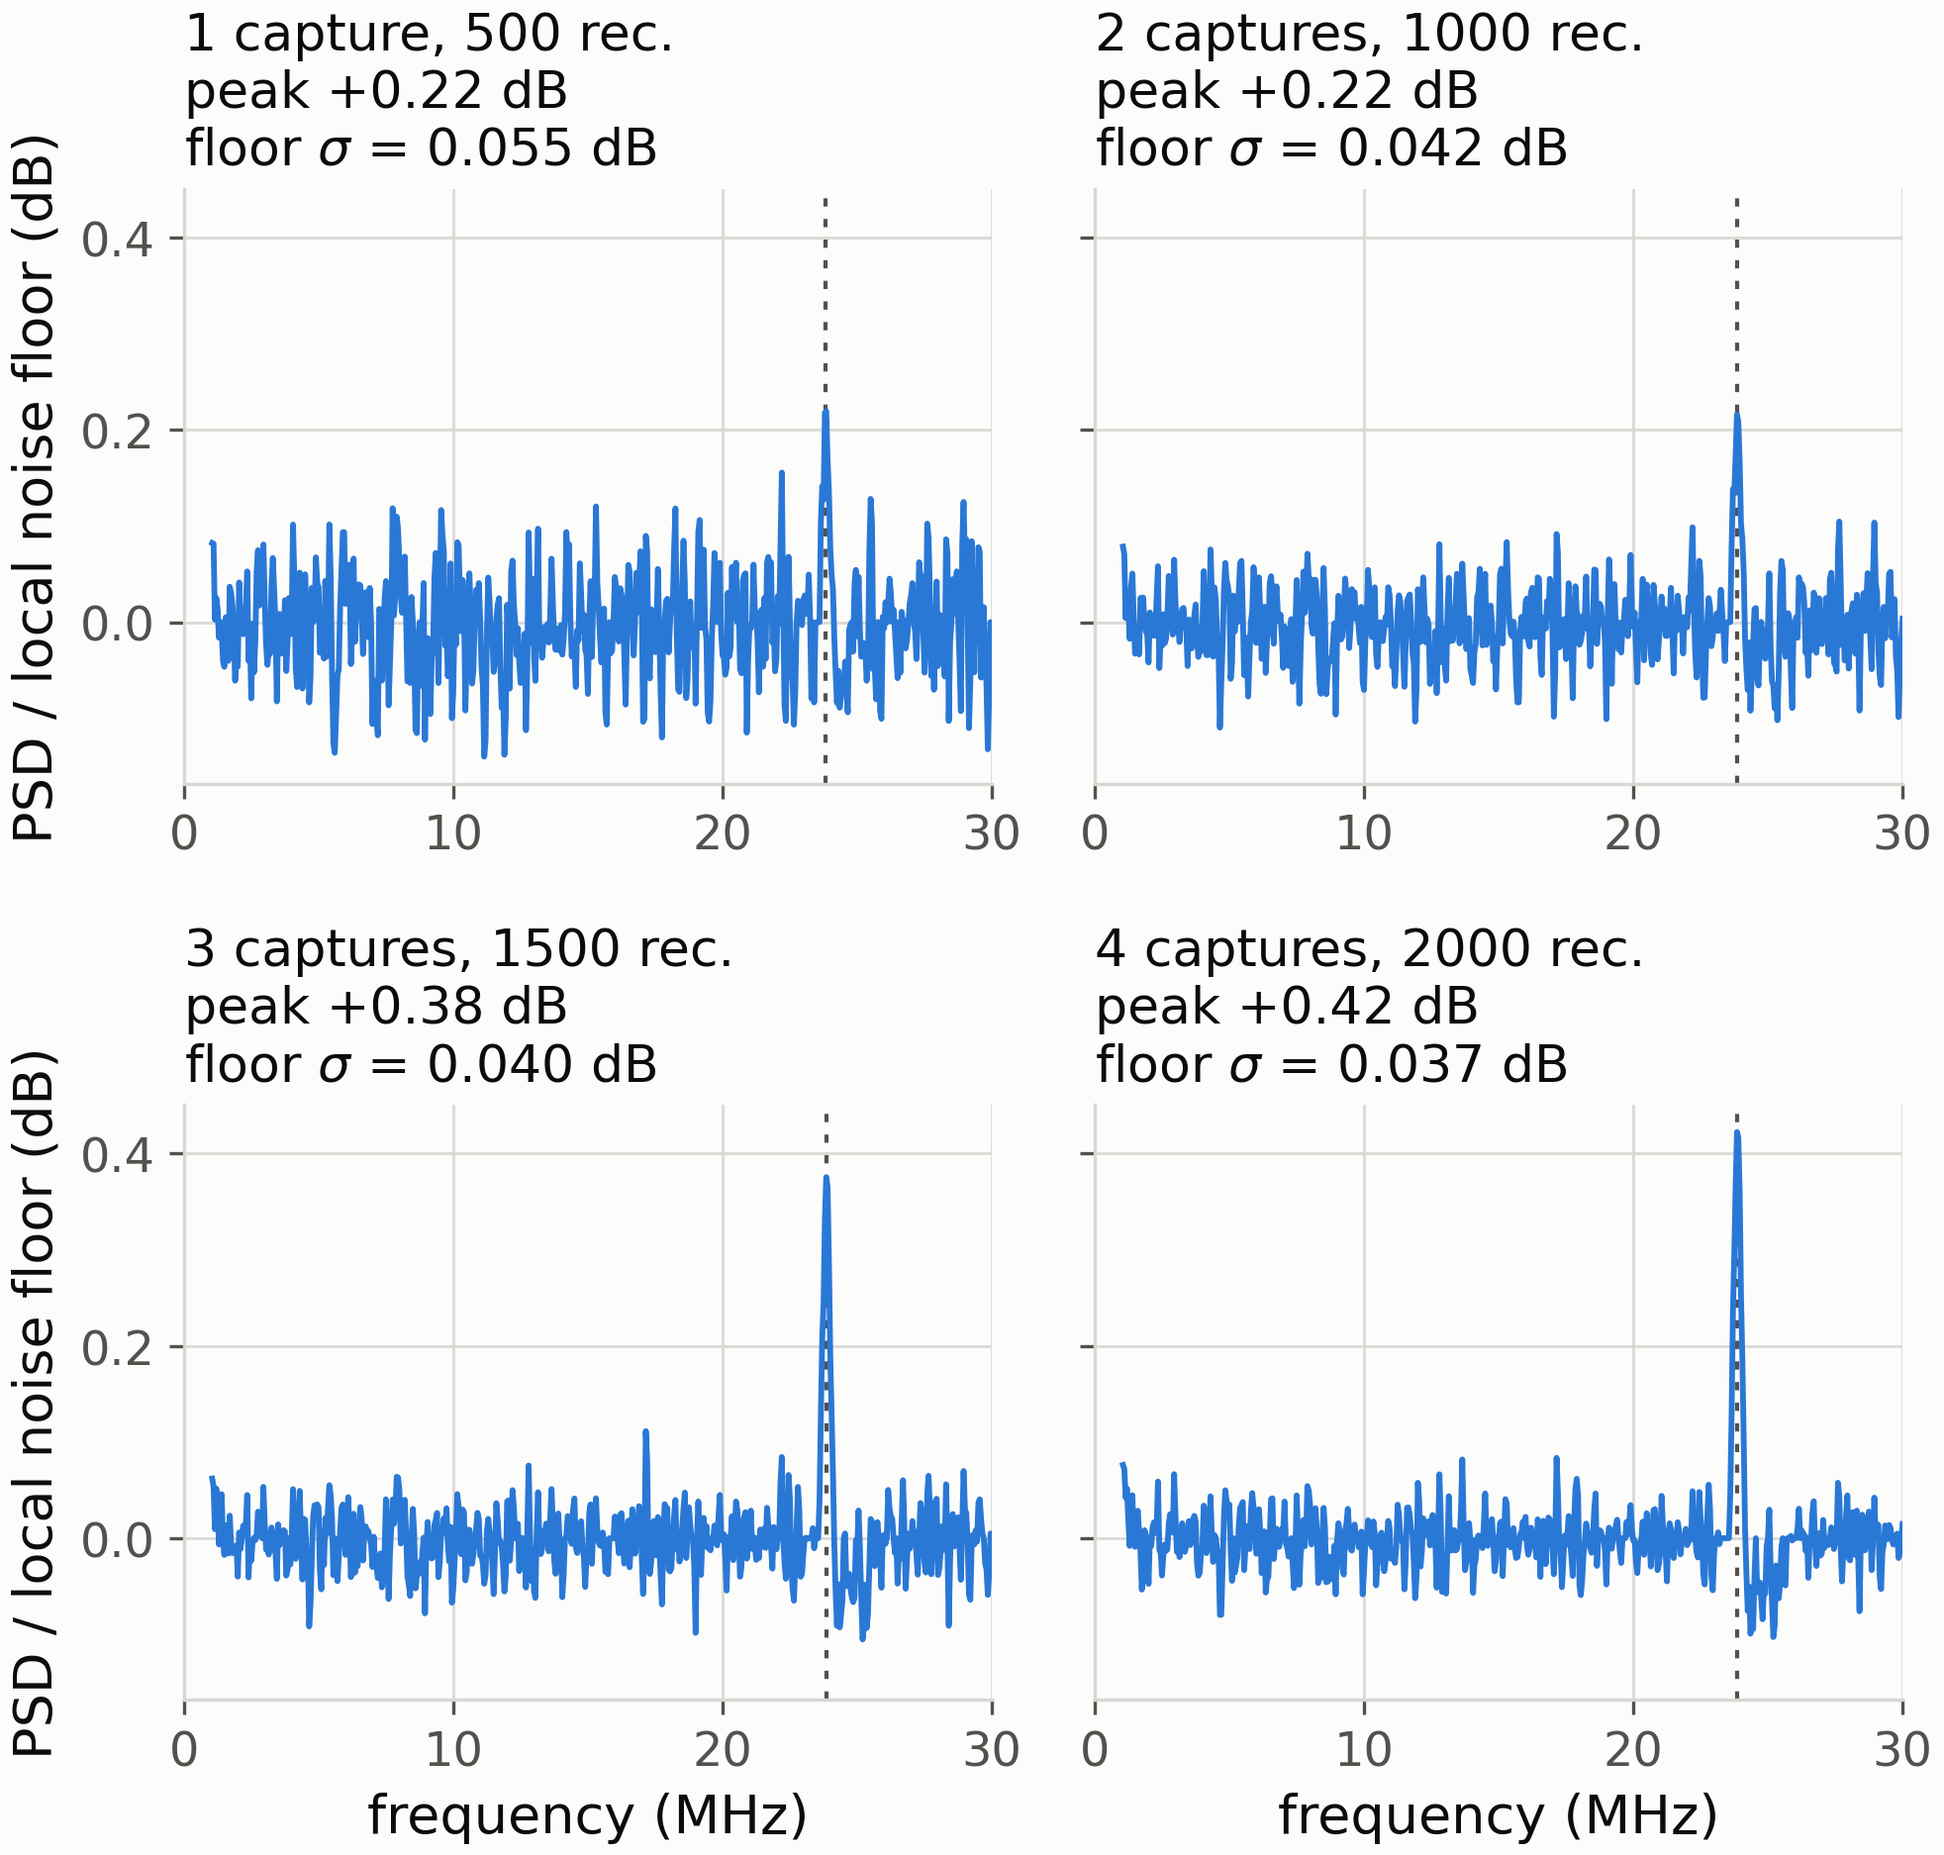
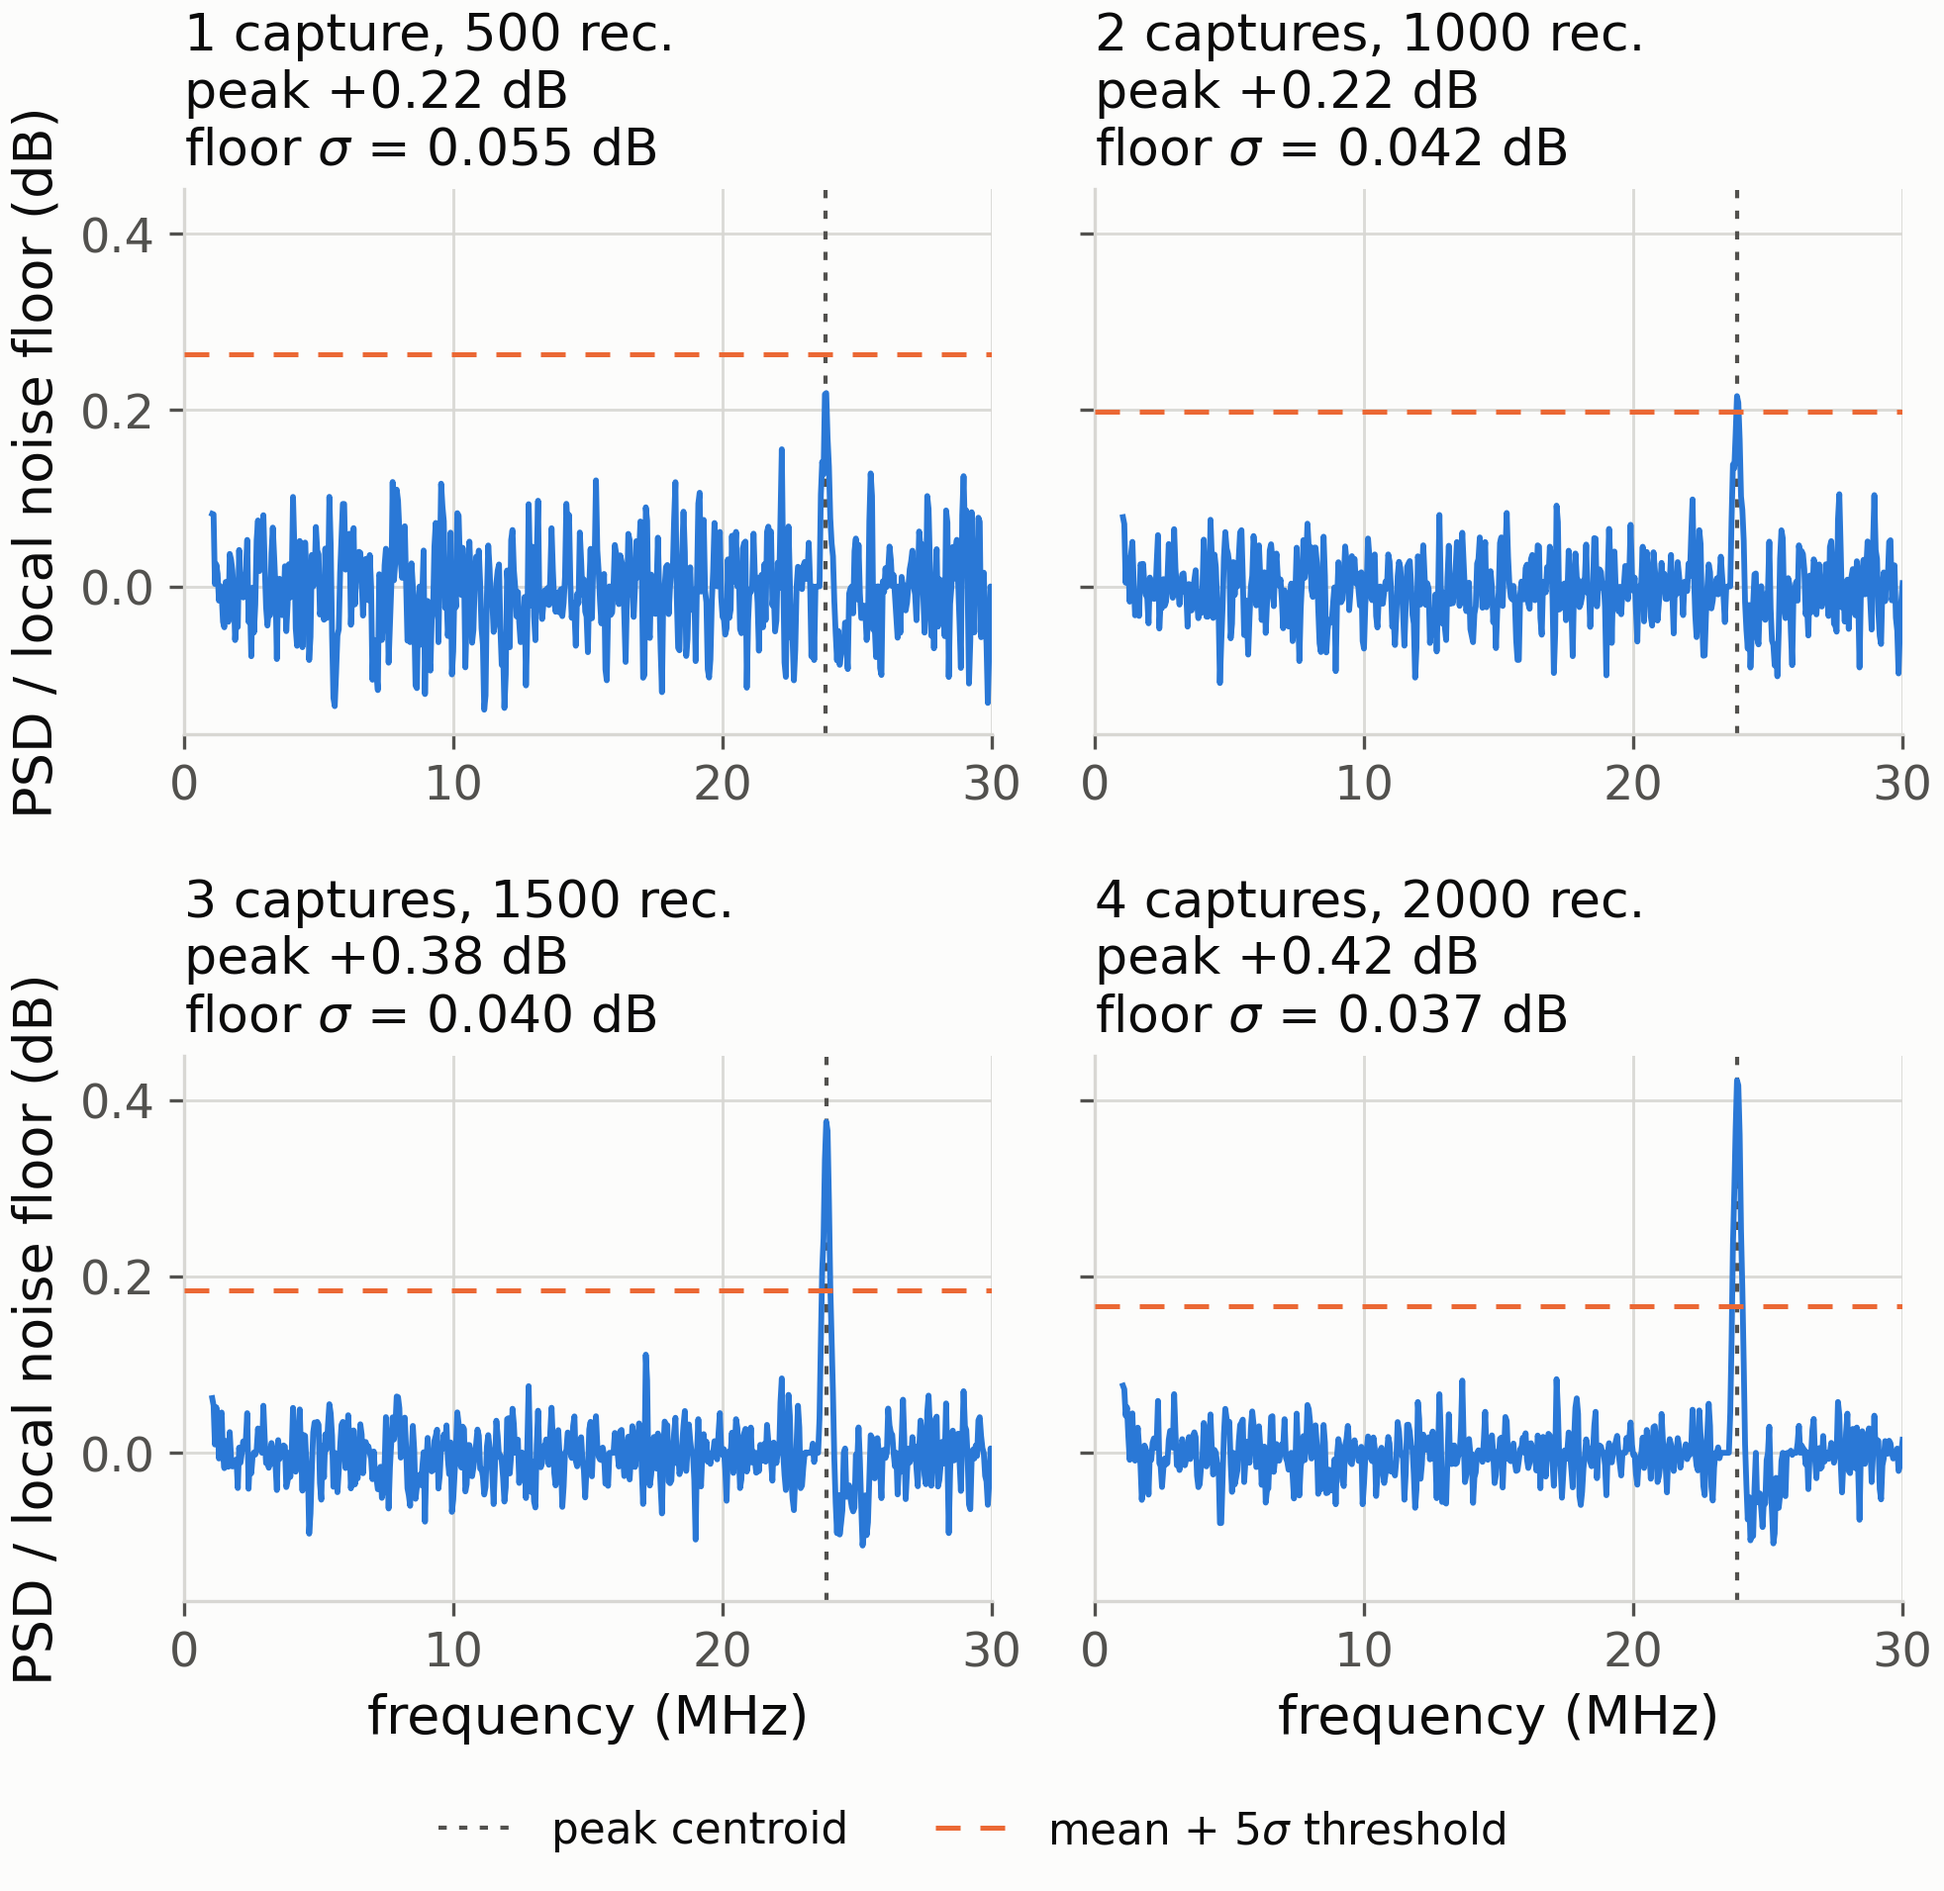
Modified scripts slightly for use in obtaining report results

diff --git a/Data Acquisition/rotation_comparison.py b/Data Acquisition/rotation_comparison.py
@@ -1,0 +1,124 @@
+"""rotation_comparison.py - Doppler speed against setpoint, unrotated vs rotated rig.
+
+The two wind-tunnel sets of wind_tunnel_doppler.py on one axis, captures
+picked exactly as there (wind_tunnel_doppler.SETS): tunnel speed from the
+Doppler peak, f_D / 1.057 MHz per m/s, against the setpoint, with the
+prediction (speed = setpoint) and each set's least-squares line through the
+origin, dashed in that set's colour.
+
+    python rotation_comparison.py
+"""
+from __future__ import annotations
+
+import argparse
+from pathlib import Path
+
+import numpy as np
+
+from peak_vs_rpm import fit_origin
+from psd_rpm import C_GRID, C_INK, C_MUTED, C_SURFACE, CAT
+from wind_tunnel_doppler import HZ_PER_MPS, SETS, measure_all, select
+
+# Per set: legend name, colour and marker. Slots follow the categorical order
+# the other wind-tunnel figures use - CAT[0] the original rig, CAT[1] the
+# prediction, CAT[2] mist - so the rotated rig takes the next one. A different
+# marker shape keeps the two rigs apart without relying on colour alone.
+LOOK = {"unrotated": ("unrotated", CAT[0], "o"),
+        "rotated": ("rotated", CAT[3], "s")}
+
+
+def load(data_dir: Path, name: str, nperseg: int) -> dict:
+    """Peaks of one set, its mist runs, and its fit through the origin."""
+    cfg = SETS[name]
+    pick = {"suffix": cfg["suffix"], "vdiv": cfg["vdiv"], "average": cfg["average"]}
+    rows = select(data_dir, cfg["date"], extra=cfg["extra"], **pick)
+    mist = select(data_dir, cfg["date"], mist=True, **pick) if cfg["mist"] else []
+    f = measure_all(rows, nperseg)
+    measure_all(mist, nperseg, f)
+    fit = [r for r in rows if not r["approx"]]
+    k, se, _ = fit_origin(np.array([r["speed"] for r in fit]),
+                          np.array([r["centroid"] for r in fit]))
+    return {"name": name, "cfg": cfg, "rows": rows, "mist": mist, "k": k, "se": se}
+
+
+def style(ax) -> None:
+    ax.set_facecolor(C_SURFACE)
+    ax.grid(True, color=C_GRID, lw=0.7, alpha=0.9)
+    ax.set_axisbelow(True)
+    for s in ("top", "right"):
+        ax.spines[s].set_visible(False)
+    for s in ("left", "bottom"):
+        ax.spines[s].set_color(C_GRID)
+    ax.tick_params(colors=C_MUTED)
+
+
+def plot(sets: list[dict], out: Path) -> None:
+    import matplotlib
+    matplotlib.use("Agg")
+    import matplotlib.pyplot as plt
+
+    import figstyle
+    figstyle.use()
+
+    fig, ax = plt.subplots(figsize=(figstyle.TEXT_WIDTH, 4.4))
+    fig.patch.set_facecolor(C_SURFACE)
+    every = [r for s in sets for r in s["rows"] + s["mist"]]
+    umax = max(r["speed"] for r in every) * 1.05
+    xs = np.array([0, umax])
+
+    ax.plot(xs, xs, color=CAT[1], lw=2, zorder=2,
+            label="predicted (1.057 MHz per m/s)")
+    for s in sets:
+        name, colour, marker = LOOK[s["name"]]
+        gain = s["k"] / HZ_PER_MPS                # measured / predicted slope
+        ax.plot(xs, gain * xs, color=colour, lw=1.2, ls=(0, (5, 4)), zorder=2,
+                label=f"fit, {name}: +{100 * (gain - 1):.1f} %")
+        # Mist under the fog markers, as in the single-set plot.
+        for group, mk, c, z, label in (
+                (s["rows"], marker, colour, 4, f"{name}, fog"),
+                (s["mist"], "D", CAT[2], 3, f"{name}, mist")):
+            if not group:
+                continue
+            u = np.array([r["speed"] for r in group])
+            meas = np.array([r["centroid"] for r in group]) / HZ_PER_MPS
+            ax.plot(u, meas, mk, ls="none", ms=6.5, color=c, mec=C_SURFACE,
+                    mew=1.3, zorder=z, label=label)
+
+    style(ax)
+    ax.set_xlim(0, umax)
+    ax.set_ylim(0, None)
+    ax.set_xlabel("wind-tunnel speed setpoint (m/s)", color=C_INK)
+    ax.set_ylabel("speed from Doppler peak (m/s)", color=C_INK)
+    # The points run up the diagonal, which leaves the top left empty; labels
+    # kept short so the legend stays clear of the fit lines.
+    ax.legend(frameon=False, loc="upper left", labelcolor=C_INK,
+              fontsize=figstyle.FS_NOTE, handlelength=1.8,
+              title="wedge and collimator", title_fontsize=figstyle.FS_NOTE,
+              alignment="left").get_title().set_color(C_MUTED)
+    fig.tight_layout()
+    fig.savefig(out, facecolor=fig.get_facecolor())
+    print(f"plot -> {out}")
+    plt.close(fig)
+
+
+def main() -> int:
+    ap = argparse.ArgumentParser(description=__doc__,
+                                 formatter_class=argparse.RawDescriptionHelpFormatter)
+    ap.add_argument("--data-dir", type=Path, default=Path("data"))
+    ap.add_argument("--nperseg", type=int, default=2500)
+    ap.add_argument("--out", type=Path,
+                    default=Path("figures/peak_vs_windtunnel_speed_compare.png"))
+    args = ap.parse_args()
+
+    sets = [load(args.data_dir, name, args.nperseg) for name in ("unrotated", "rotated")]
+    for s in sets:
+        errs = [100 * (r["centroid"] / HZ_PER_MPS / r["speed"] - 1) for r in s["rows"]]
+        print(f"{s['name']:>9}: fit {s['k']/1e6:.4f} +/- {s['se']/1e6:.4f} MHz per m/s "
+              f"({100 * (s['k']/HZ_PER_MPS - 1):+.1f} %), per-point "
+              f"{min(errs):+.1f} to {max(errs):+.1f} %")
+    plot(sets, args.out)
+    return 0
+
+
+if __name__ == "__main__":
+    raise SystemExit(main())

diff --git a/Data Acquisition/wind_tunnel_doppler.py b/Data Acquisition/wind_tunnel_doppler.py
@@ -424,7 +424,12 @@ def plot_averaging(caps: list[dict], f: np.ndarray, out: Path,
                        "noise_sd_dB": sd, "sigmas": sig})
 
         ax.set_facecolor(C_SURFACE)
-        ax.axvline(p["centroid"], color=C_MUTED, lw=1, ls=(0, (2, 3)), zorder=2)
+        ax.axvline(p["centroid"], color=C_MUTED, lw=1, ls=(0, (2, 3)), zorder=2,
+                   label="peak centroid")
+        # The detection threshold of noise_vs_windspeed.txt: the noise band's
+        # mean plus five of its standard deviations, in the same dB units.
+        ax.axhline(n["rel_mean_dB"] + 5 * sd, color=CAT[1], lw=1.2,
+                   ls=(0, (5, 4)), zorder=4, label=r"mean + 5$\sigma$ threshold")
         ax.plot(f[m], db[m], color=CAT[0], lw=1.4, zorder=3)
         # Stats go in the title: a spur at 12.5 MHz leaves no clear corner.
         # Kept to two short lines so three panels fit across the page; the
@@ -443,7 +448,13 @@ def plot_averaging(caps: list[dict], f: np.ndarray, out: Path,
         # 5 MHz ticks crowd a narrow panel past 15 MHz.
         ax.set_xticks(range(0, int(fmax) + 1,
                             5_000_000 if fmax <= 15e6 else 10_000_000))
-    finish(ax, fig, out)
+    # One legend for every panel, beneath them: the panels have no free corner.
+    handles, labels = axes[0].get_legend_handles_labels()
+    fig.legend(handles, labels, frameon=False, ncol=len(labels), loc="lower center",
+               labelcolor=C_INK, fontsize=figstyle.FS_NOTE, handlelength=1.8)
+    fig.tight_layout(rect=(0, 0.35 / (3.3 * nrows + 0.35), 1, 1))
+    fig.savefig(out, facecolor=fig.get_facecolor())
+    print(f"plot -> {out}")
     plt.close(fig)
     return panels
 

diff --git a/Data Acquisition/noise_vs_windspeed.py b/Data Acquisition/noise_vs_windspeed.py
@@ -145,13 +145,17 @@ def main() -> int:
         f"to {args.window/1e6:g} MHz either side,\n"
         f"           nothing below {args.noise_fmin/1e3:g} kHz (near-DC spike)\n"
         f"units:     V^2/Hz"
-        + (", except the mist table (dB relative to the floor)" if mist
-           else ", except the last table (dB relative to the floor)")
+        + ", except the last table (dB relative to the floor)"
         + f"\n\n{cfg['name']}, raw PSD:\n"
     )
     width = max(len(r["x"]) for r in rows + mist)
     text = report(head, rows, "", ("U", ""), width=width)
     if mist:
+        # The mist rows on the raw test too, for comparison with dense fog; the
+        # floor-relative table after it is the one they are judged by.
+        text += report("\n\nmist runs, raw PSD (xN = the first N captures of that "
+                       "speed, averaged in power):\n", mist, "", ("U", ""),
+                       width=width)
         text += relative_to_floor(mist, width)
     else:
         # No mist runs to put there, but the weakest returns (21 m/s rotated)
